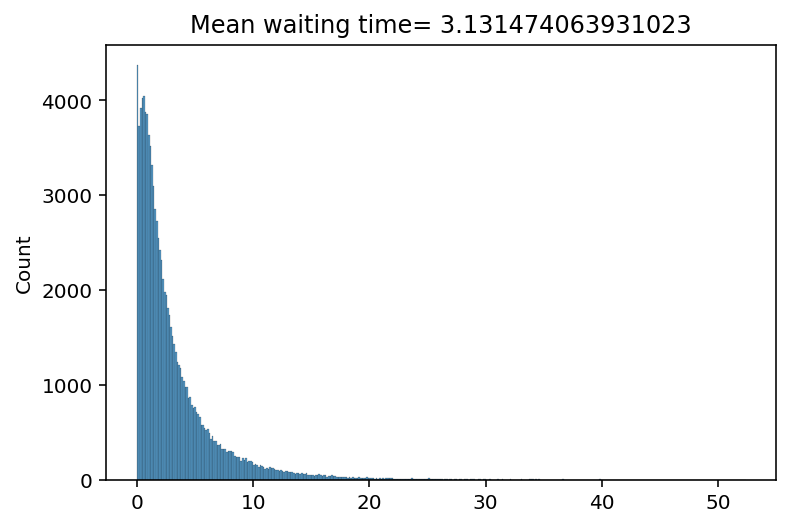
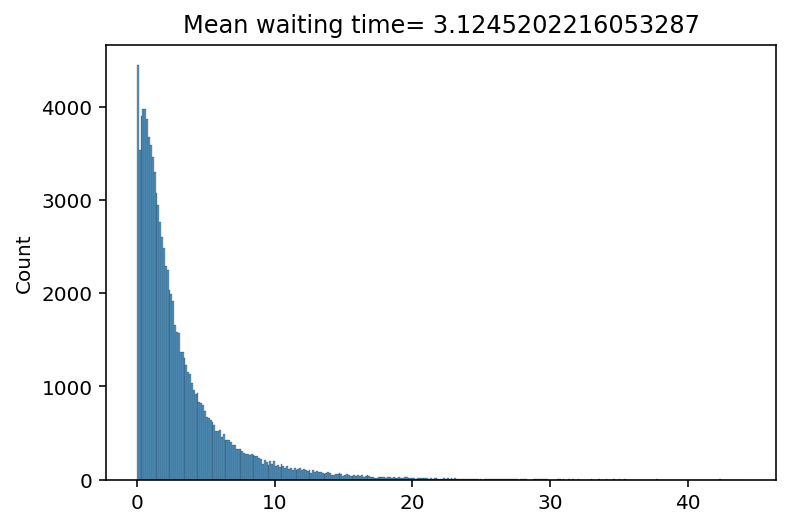
Minor

diff --git a/experiments/site/source/sim-based-opt.html b/experiments/site/source/sim-based-opt.html
@@ -7,7 +7,7 @@
 <meta name="viewport" content="width=device-width, initial-scale=1.0, user-scalable=yes">
 
 
-<title>site - Simulation Based Optimization</title>
+<title>Experiments - Simulation Based Optimization</title>
 <style>
 code{white-space: pre-wrap;}
 span.smallcaps{font-variant: small-caps;}
@@ -134,7 +134,7 @@ code span.wa { color: #60a0b0; font-weight: bold; font-style: italic; } /* Warni
       <div class="navbar-container container-fluid">
       <div class="navbar-brand-container">
     <a class="navbar-brand" href="./index.html">
-    <span class="navbar-title">site</span>
+    <span class="navbar-title">Experiments</span>
     </a>
   </div>
           <button class="navbar-toggler" type="button" data-bs-toggle="collapse" data-bs-target="#navbarCollapse" aria-controls="navbarCollapse" aria-expanded="false" aria-label="Toggle navigation" onclick="if (window.quartoToggleHeadroom) { window.quartoToggleHeadroom(); }">
@@ -269,10 +269,10 @@ code span.wa { color: #60a0b0; font-weight: bold; font-style: italic; } /* Warni
 <span id="cb3-35"><a href="#cb3-35" aria-hidden="true" tabindex="-1"></a>axs3.hist(simreswt, bins <span class="op">=</span> <span class="dv">300</span>)</span>
 <span id="cb3-36"><a href="#cb3-36" aria-hidden="true" tabindex="-1"></a>axs3.set_title(<span class="ss">f'schedule: </span><span class="sc">{</span>sim<span class="sc">}</span><span class="ss">, mwt: </span><span class="sc">{</span>mwt<span class="sc">}</span><span class="ss">, mln: </span><span class="sc">{</span>mln<span class="sc">}</span><span class="ss">, loss: </span><span class="sc">{</span>loss<span class="sc">}</span><span class="ss">'</span>)</span></code><button title="Copy to Clipboard" class="code-copy-button"><i class="bi"></i></button></pre></div>
 <div class="cell-output cell-output-stdout">
-<pre><code>1.9271481037139893</code></pre>
+<pre><code>1.9191620349884033</code></pre>
 </div>
 <div class="cell-output cell-output-display" data-execution_count="3">
-<pre><code>Text(0.5, 1.0, 'schedule: [1 1 1 1 1 1 1 1 1 1 1 1], mwt: 1.6142214488935012, mln: 1.9894562118479289, loss: 1.801838830370715')</code></pre>
+<pre><code>Text(0.5, 1.0, 'schedule: [1 1 1 1 1 1 1 1 1 1 1 1], mwt: 1.628650296227571, mln: 2.008251478502302, loss: 1.8184508873649365')</code></pre>
 </div>
 <div class="cell-output cell-output-display">
 <p><img src="sim-based-opt_files/figure-html/cell-4-output-3.png" class="img-fluid"></p>
@@ -313,7 +313,7 @@ code span.wa { color: #60a0b0; font-weight: bold; font-style: italic; } /* Warni
 <span id="cb6-29"><a href="#cb6-29" aria-hidden="true" tabindex="-1"></a>axs3.hist(simreswt, bins <span class="op">=</span> <span class="dv">300</span>)</span>
 <span id="cb6-30"><a href="#cb6-30" aria-hidden="true" tabindex="-1"></a>axs3.set_title(<span class="ss">f'schedule: </span><span class="sc">{</span>sim<span class="sc">}</span><span class="ss">, mwt: </span><span class="sc">{</span>mwt<span class="sc">}</span><span class="ss">, mln: </span><span class="sc">{</span>mln<span class="sc">}</span><span class="ss">, loss: </span><span class="sc">{</span>loss<span class="sc">}</span><span class="ss">'</span>)</span></code><button title="Copy to Clipboard" class="code-copy-button"><i class="bi"></i></button></pre></div>
 <div class="cell-output cell-output-display" data-execution_count="4">
-<pre><code>Text(0.5, 1.0, 'schedule: [2 0 1 1 1 1 1 1 1 1 1 1], mwt: 2.198865235750721, mln: 1.9858980275708251, loss: 2.092381631660773')</code></pre>
+<pre><code>Text(0.5, 1.0, 'schedule: [2 0 1 1 1 1 1 1 1 1 1 1], mwt: 2.2145308988902643, mln: 2.004846181961865, loss: 2.1096885404260646')</code></pre>
 </div>
 <div class="cell-output cell-output-display">
 <p><img src="sim-based-opt_files/figure-html/cell-5-output-2.png" class="img-fluid"></p>
@@ -354,7 +354,7 @@ code span.wa { color: #60a0b0; font-weight: bold; font-style: italic; } /* Warni
 <span id="cb8-29"><a href="#cb8-29" aria-hidden="true" tabindex="-1"></a>axs3.hist(simreswt, bins <span class="op">=</span> <span class="dv">300</span>)</span>
 <span id="cb8-30"><a href="#cb8-30" aria-hidden="true" tabindex="-1"></a>axs3.set_title(<span class="ss">f'schedule: </span><span class="sc">{</span>sim<span class="sc">}</span><span class="ss">, mwt: </span><span class="sc">{</span>mwt<span class="sc">}</span><span class="ss">, mln: </span><span class="sc">{</span>mln<span class="sc">}</span><span class="ss">, loss: </span><span class="sc">{</span>loss<span class="sc">}</span><span class="ss">'</span>)</span></code><button title="Copy to Clipboard" class="code-copy-button"><i class="bi"></i></button></pre></div>
 <div class="cell-output cell-output-display" data-execution_count="5">
-<pre><code>Text(0.5, 1.0, 'schedule: [1 1 1 2 0 1 1 1 1 1 1 1], mwt: 2.2821057627915007, mln: 1.9787031363503778, loss: 2.130404449570939')</code></pre>
+<pre><code>Text(0.5, 1.0, 'schedule: [1 1 1 2 0 1 1 1 1 1 1 1], mwt: 2.300712630374417, mln: 1.99761781582213, loss: 2.1491652230982736')</code></pre>
 </div>
 <div class="cell-output cell-output-display">
 <p><img src="sim-based-opt_files/figure-html/cell-6-output-2.png" class="img-fluid"></p>
@@ -395,7 +395,7 @@ code span.wa { color: #60a0b0; font-weight: bold; font-style: italic; } /* Warni
 <span id="cb10-29"><a href="#cb10-29" aria-hidden="true" tabindex="-1"></a>axs3.hist(simreswt, bins <span class="op">=</span> <span class="dv">300</span>)</span>
 <span id="cb10-30"><a href="#cb10-30" aria-hidden="true" tabindex="-1"></a>axs3.set_title(<span class="ss">f'schedule: </span><span class="sc">{</span>sim<span class="sc">}</span><span class="ss">, mwt: </span><span class="sc">{</span>mwt<span class="sc">}</span><span class="ss">, mln: </span><span class="sc">{</span>mln<span class="sc">}</span><span class="ss">, loss: </span><span class="sc">{</span>loss<span class="sc">}</span><span class="ss">'</span>)</span></code><button title="Copy to Clipboard" class="code-copy-button"><i class="bi"></i></button></pre></div>
 <div class="cell-output cell-output-display" data-execution_count="6">
-<pre><code>Text(0.5, 1.0, 'schedule: [1 1 1 1 1 2 0 1 1 1 1 1], mwt: 2.2985561213765475, mln: 1.966813297634086, loss: 2.132684709505317')</code></pre>
+<pre><code>Text(0.5, 1.0, 'schedule: [1 1 1 1 1 2 0 1 1 1 1 1], mwt: 2.308230165116365, mln: 1.9829459016861526, loss: 2.1455880334012587')</code></pre>
 </div>
 <div class="cell-output cell-output-display">
 <p><img src="sim-based-opt_files/figure-html/cell-7-output-2.png" class="img-fluid"></p>

diff --git a/experiments/site/source/sched-sim.html b/experiments/site/source/sched-sim.html
@@ -7,7 +7,7 @@
 <meta name="viewport" content="width=device-width, initial-scale=1.0, user-scalable=yes">
 
 
-<title>site - Scheduling Simulation</title>
+<title>Experiments - Scheduling Simulation</title>
 <style>
 code{white-space: pre-wrap;}
 span.smallcaps{font-variant: small-caps;}
@@ -134,7 +134,7 @@ code span.wa { color: #60a0b0; font-weight: bold; font-style: italic; } /* Warni
       <div class="navbar-container container-fluid">
       <div class="navbar-brand-container">
     <a class="navbar-brand" href="./index.html">
-    <span class="navbar-title">site</span>
+    <span class="navbar-title">Experiments</span>
     </a>
   </div>
           <button class="navbar-toggler" type="button" data-bs-toggle="collapse" data-bs-target="#navbarCollapse" aria-controls="navbarCollapse" aria-expanded="false" aria-label="Toggle navigation" onclick="if (window.quartoToggleHeadroom) { window.quartoToggleHeadroom(); }">
@@ -397,7 +397,7 @@ code span.wa { color: #60a0b0; font-weight: bold; font-style: italic; } /* Warni
 <span id="cb7-2"><a href="#cb7-2" aria-hidden="true" tabindex="-1"></a>fig <span class="op">=</span> sns.histplot(simres)</span>
 <span id="cb7-3"><a href="#cb7-3" aria-hidden="true" tabindex="-1"></a>fig.<span class="bu">set</span>(title<span class="op">=</span><span class="ss">f"Mean waiting time= </span><span class="sc">{</span>mwt<span class="sc">}</span><span class="ss">"</span>)</span></code><button title="Copy to Clipboard" class="code-copy-button"><i class="bi"></i></button></pre></div>
 <div class="cell-output cell-output-display" data-execution_count="6">
-<pre><code>[Text(0.5, 1.0, 'Mean waiting time= 3.131474063931023')]</code></pre>
+<pre><code>[Text(0.5, 1.0, 'Mean waiting time= 3.1245202216053287')]</code></pre>
 </div>
 <div class="cell-output cell-output-display">
 <p><img src="sched-sim_files/figure-html/cell-7-output-2.png" class="img-fluid"></p>
@@ -437,7 +437,7 @@ code span.wa { color: #60a0b0; font-weight: bold; font-style: italic; } /* Warni
 <span id="cb11-2"><a href="#cb11-2" aria-hidden="true" tabindex="-1"></a>fig <span class="op">=</span> sns.histplot(simres)</span>
 <span id="cb11-3"><a href="#cb11-3" aria-hidden="true" tabindex="-1"></a>fig.<span class="bu">set</span>(title<span class="op">=</span><span class="ss">f"Mean waiting time = </span><span class="sc">{</span>mwt<span class="sc">}</span><span class="ss">"</span>)</span></code><button title="Copy to Clipboard" class="code-copy-button"><i class="bi"></i></button></pre></div>
 <div class="cell-output cell-output-display" data-execution_count="9">
-<pre><code>[Text(0.5, 1.0, 'Mean waiting time = 11.180819550079288')]</code></pre>
+<pre><code>[Text(0.5, 1.0, 'Mean waiting time = 11.129256919264234')]</code></pre>
 </div>
 <div class="cell-output cell-output-display">
 <p><img src="sched-sim_files/figure-html/cell-10-output-2.png" class="img-fluid"></p>
@@ -474,7 +474,7 @@ code span.wa { color: #60a0b0; font-weight: bold; font-style: italic; } /* Warni
 <span id="cb15-2"><a href="#cb15-2" aria-hidden="true" tabindex="-1"></a>fig <span class="op">=</span> sns.histplot(simres)</span>
 <span id="cb15-3"><a href="#cb15-3" aria-hidden="true" tabindex="-1"></a>fig.<span class="bu">set</span>(title<span class="op">=</span><span class="ss">f"Mean waiting time = </span><span class="sc">{</span>mwt<span class="sc">}</span><span class="ss">"</span>)</span></code><button title="Copy to Clipboard" class="code-copy-button"><i class="bi"></i></button></pre></div>
 <div class="cell-output cell-output-display" data-execution_count="12">
-<pre><code>[Text(0.5, 1.0, 'Mean waiting time = 22.782874790887096')]</code></pre>
+<pre><code>[Text(0.5, 1.0, 'Mean waiting time = 22.757662394656464')]</code></pre>
 </div>
 <div class="cell-output cell-output-display">
 <p><img src="sched-sim_files/figure-html/cell-13-output-2.png" class="img-fluid"></p>

diff --git a/experiments/site/source/search-function.html b/experiments/site/source/search-function.html
@@ -7,7 +7,7 @@
 <meta name="viewport" content="width=device-width, initial-scale=1.0, user-scalable=yes">
 
 
-<title>site - Search Function</title>
+<title>Experiments - Search Function</title>
 <style>
 code{white-space: pre-wrap;}
 span.smallcaps{font-variant: small-caps;}
@@ -134,7 +134,7 @@ code span.wa { color: #60a0b0; font-weight: bold; font-style: italic; } /* Warni
       <div class="navbar-container container-fluid">
       <div class="navbar-brand-container">
     <a class="navbar-brand" href="./index.html">
-    <span class="navbar-title">site</span>
+    <span class="navbar-title">Experiments</span>
     </a>
   </div>
           <button class="navbar-toggler" type="button" data-bs-toggle="collapse" data-bs-target="#navbarCollapse" aria-controls="navbarCollapse" aria-expanded="false" aria-label="Toggle navigation" onclick="if (window.quartoToggleHeadroom) { window.quartoToggleHeadroom(); }">
@@ -276,49 +276,49 @@ code span.wa { color: #60a0b0; font-weight: bold; font-style: italic; } /* Warni
 <pre><code>schedule: [2 0 1 0 1 0 1 0 1 0 1 1],
 iats: [ 0  0 30 30 30 30 30 15],
 iats_diff: [  0  30   0   0   0   0 -15],
-loss = 1.4112912238444584, calc time: 1.5287010669708252 secs</code></pre>
+loss = 1.4229895302992286, calc time: 1.5137519836425781 secs</code></pre>
 </div>
 <div class="cell-output cell-output-stdout">
 <pre><code>schedule: [1 0 1 0 1 0 1 0 1 0 1 2],
 iats: [ 0 30 30 30 30 30 15  0],
 iats_diff: [ 30   0   0   0   0 -15 -15],
-loss = 4.1827745697945184, calc time: 1.5766520500183105 secs</code></pre>
+loss = 4.204202820879308, calc time: 1.5049071311950684 secs</code></pre>
 </div>
 <div class="cell-output cell-output-stdout">
 <pre><code>schedule: [2 1 0 0 1 0 1 0 1 0 1 1],
 iats: [ 0  0 15 45 30 30 30 15],
 iats_diff: [  0  15  30 -15   0   0 -15],
-loss = 1.7477172374678487, calc time: 1.4856131076812744 secs</code></pre>
+loss = 1.7592080210490364, calc time: 1.5699341297149658 secs</code></pre>
 </div>
 <div class="cell-output cell-output-stdout">
 <pre><code>schedule: [2 0 1 1 0 0 1 0 1 0 1 1],
 iats: [ 0  0 30 15 45 30 30 15],
 iats_diff: [  0  30 -15  30 -15   0 -15],
-loss = 1.4940844225037386, calc time: 1.5388011932373047 secs</code></pre>
+loss = 1.5066239955273182, calc time: 1.5179591178894043 secs</code></pre>
 </div>
 <div class="cell-output cell-output-stdout">
 <pre><code>schedule: [2 0 1 0 1 1 0 0 1 0 1 1],
 iats: [ 0  0 30 30 15 45 30 15],
 iats_diff: [  0  30   0 -15  30 -15 -15],
-loss = 1.4721617917442342, calc time: 1.5308899879455566 secs</code></pre>
+loss = 1.4853426135574117, calc time: 1.5265510082244873 secs</code></pre>
 </div>
 <div class="cell-output cell-output-stdout">
 <pre><code>schedule: [2 0 1 0 1 0 1 1 0 0 1 1],
 iats: [ 0  0 30 30 30 15 45 15],
 iats_diff: [  0  30   0   0 -15  30 -30],
-loss = 1.4694135083140654, calc time: 1.5165090560913086 secs</code></pre>
+loss = 1.480849828464804, calc time: 1.4918768405914307 secs</code></pre>
 </div>
 <div class="cell-output cell-output-stdout">
 <pre><code>schedule: [2 0 1 0 1 0 1 0 1 1 0 1],
 iats: [ 0  0 30 30 30 30 15 30],
 iats_diff: [  0  30   0   0   0 -15  15],
-loss = 1.2081071284687153, calc time: 1.5329170227050781 secs</code></pre>
+loss = 1.2169779229481765, calc time: 1.5058281421661377 secs</code></pre>
 </div>
 <div class="cell-output cell-output-stdout">
 <pre><code>schedule: [2 0 1 0 1 0 1 0 1 0 2 0],
 iats: [ 0  0 30 30 30 30 30  0],
 iats_diff: [  0  30   0   0   0   0 -30],
-loss = 4.33047293824246, calc time: 1.568871021270752 secs</code></pre>
+loss = 4.354481672452087, calc time: 1.526296854019165 secs</code></pre>
 </div>
 </div>
 

diff --git a/experiments/site/source/index.html b/experiments/site/source/index.html
@@ -7,7 +7,7 @@
 <meta name="viewport" content="width=device-width, initial-scale=1.0, user-scalable=yes">
 
 
-<title>site - Experiments</title>
+<title>Experiments</title>
 <style>
 code{white-space: pre-wrap;}
 span.smallcaps{font-variant: small-caps;}
@@ -71,7 +71,7 @@ ul.task-list li input[type="checkbox"] {
       <div class="navbar-container container-fluid">
       <div class="navbar-brand-container">
     <a class="navbar-brand" href="./index.html">
-    <span class="navbar-title">site</span>
+    <span class="navbar-title">Experiments</span>
     </a>
   </div>
           <button class="navbar-toggler" type="button" data-bs-toggle="collapse" data-bs-target="#navbarCollapse" aria-controls="navbarCollapse" aria-expanded="false" aria-label="Toggle navigation" onclick="if (window.quartoToggleHeadroom) { window.quartoToggleHeadroom(); }">
